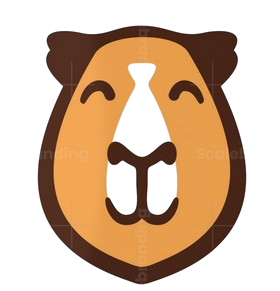
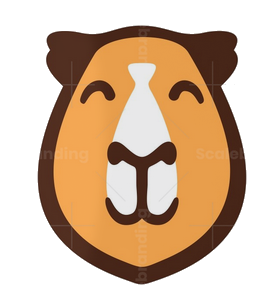
projects sectoin

diff --git a/app/page.tsx b/app/page.tsx
@@ -2,10 +2,12 @@ import Link from "next/link";
 import Hero from "@/components/Hero";
 import NowPlaying from "@/components/NowPlaying";
 import { getAllPosts } from "@/lib/posts";
-import { Calendar, ArrowRight } from "lucide-react";
+import { projects } from "@/lib/projects";
+import { Calendar, ArrowRight, ExternalLink, GitBranch } from "lucide-react";
 
 export default function Home() {
   const posts = getAllPosts().slice(0, 3);
+  const topProjects = projects.slice(0, 3);
 
   return (
     <main className="min-h-screen max-w-[1200px] mx-auto px-8 pb-24 pt-20 flex flex-col font-sans">
@@ -17,6 +19,84 @@ export default function Home() {
           <NowPlaying />
         </div>
       </div>
+
+      <section className="mt-32 flex flex-col gap-6">
+        <div className="flex flex-col gap-2">
+          <h2 className="text-3xl sm:text-4xl font-serif font-normal tracking-tight text-gray-900 dark:text-gray-100">
+            Projects
+          </h2>
+          <p className="text-sm text-gray-500 dark:text-gray-400 font-mono">
+            things i have built or am building
+          </p>
+        </div>
+
+        <div className="grid grid-cols-1 sm:grid-cols-2 lg:grid-cols-3 gap-5">
+          {topProjects.map((project) => (
+            <div
+              key={project.title}
+              className="group rounded-2xl border border-gray-200/60 dark:border-white/10 bg-white/40 dark:bg-white/[0.03] p-5 backdrop-blur-xl transition-all hover:border-gray-300/80 dark:hover:border-white/20 hover:shadow-lg flex flex-col gap-3"
+            >
+              {project.image && (
+                <div className="overflow-hidden rounded-xl -mx-1 -mt-1">
+                  {/* eslint-disable-next-line @next/next/no-img-element */}
+                  <img
+                    src={project.image}
+                    alt={project.title}
+                    className="w-full h-32 object-cover rounded-xl transition-transform group-hover:scale-105"
+                  />
+                </div>
+              )}
+
+              <div className="flex flex-col gap-2 flex-grow">
+                <div className="flex items-start justify-between gap-2">
+                  <h3 className="text-base font-medium text-gray-900 dark:text-gray-200 leading-snug">
+                    {project.title}
+                  </h3>
+                  <span className="shrink-0 text-[10px] font-mono px-2 py-0.5 rounded-full bg-gray-200/60 dark:bg-white/5 text-gray-500 dark:text-gray-500">
+                    {project.status}
+                  </span>
+                </div>
+
+                <p className="text-[13px] text-gray-500 dark:text-gray-400 leading-relaxed line-clamp-3">
+                  {project.description}
+                </p>
+              </div>
+
+              <div className="flex items-center gap-2.5 mt-auto pt-1">
+                {project.demo && (
+                  <Link
+                    href={project.demo}
+                    target="_blank"
+                    rel="noopener noreferrer"
+                    className="flex items-center gap-1 text-xs font-mono text-blue-500 dark:text-blue-400 hover:underline"
+                  >
+                    <ExternalLink size={12} />
+                    demo
+                  </Link>
+                )}
+                {project.github && (
+                  <Link
+                    href={project.github}
+                    target="_blank"
+                    rel="noopener noreferrer"
+                    className="flex items-center gap-1 text-xs font-mono text-gray-500 dark:text-gray-400 hover:text-gray-900 dark:hover:text-gray-200 transition-colors"
+                  >
+                    <GitBranch size={12} />
+                    source
+                  </Link>
+                )}
+              </div>
+            </div>
+          ))}
+        </div>
+
+        <Link
+          href="/projects"
+          className="flex items-center gap-1.5 text-sm font-mono text-gray-500 dark:text-gray-400 hover:text-gray-900 dark:hover:text-gray-200 transition-colors w-fit mt-2"
+        >
+          all projects <ArrowRight size={14} />
+        </Link>
+      </section>
 
       <section className="mt-32 flex flex-col gap-6">
         <div className="flex flex-col gap-2">

diff --git a/app/projects/page.tsx b/app/projects/page.tsx
@@ -1,0 +1,80 @@
+import Link from "next/link";
+import { projects } from "@/lib/projects";
+import { ExternalLink, GitBranch } from "lucide-react";
+
+export default function ProjectsPage() {
+  return (
+    <div className="min-h-screen max-w-[1200px] mx-auto px-8 pb-24 pt-8 flex flex-col">
+      <div className="flex flex-col gap-12">
+        <div className="flex flex-col gap-3">
+          <h1 className="text-3xl sm:text-4xl font-serif font-normal tracking-tight text-gray-900 dark:text-gray-100">
+            Projects
+          </h1>
+          <p className="text-sm text-gray-500 dark:text-gray-400 font-mono max-w-lg">
+            things i have built or am building
+          </p>
+        </div>
+
+        <div className="grid grid-cols-1 sm:grid-cols-2 lg:grid-cols-3 gap-5">
+          {projects.map((project) => (
+            <div
+              key={project.title}
+              className="group rounded-2xl border border-gray-200/60 dark:border-white/10 bg-white/40 dark:bg-white/[0.03] p-5 backdrop-blur-xl transition-all hover:border-gray-300/80 dark:hover:border-white/20 hover:shadow-lg flex flex-col gap-3"
+            >
+              {project.image && (
+                <div className="overflow-hidden rounded-xl -mx-1 -mt-1">
+                  {/* eslint-disable-next-line @next/next/no-img-element */}
+                  <img
+                    src={project.image}
+                    alt={project.title}
+                    className="w-full h-40 object-cover rounded-xl transition-transform group-hover:scale-105"
+                  />
+                </div>
+              )}
+
+              <div className="flex flex-col gap-2 flex-grow">
+                <div className="flex items-start justify-between gap-2">
+                  <h2 className="text-base font-medium text-gray-900 dark:text-gray-200 leading-snug">
+                    {project.title}
+                  </h2>
+                  <span className="shrink-0 text-[10px] font-mono px-2 py-0.5 rounded-full bg-gray-200/60 dark:bg-white/5 text-gray-500 dark:text-gray-500">
+                    {project.status}
+                  </span>
+                </div>
+
+                <p className="text-[13px] text-gray-500 dark:text-gray-400 leading-relaxed line-clamp-4">
+                  {project.description}
+                </p>
+              </div>
+
+              <div className="flex items-center gap-3 mt-auto pt-1">
+                {project.demo && (
+                  <Link
+                    href={project.demo}
+                    target="_blank"
+                    rel="noopener noreferrer"
+                    className="flex items-center gap-1 text-xs font-mono text-blue-500 dark:text-blue-400 hover:underline"
+                  >
+                    <ExternalLink size={12} />
+                    demo
+                  </Link>
+                )}
+                {project.github && (
+                  <Link
+                    href={project.github}
+                    target="_blank"
+                    rel="noopener noreferrer"
+                    className="flex items-center gap-1 text-xs font-mono text-gray-500 dark:text-gray-400 hover:text-gray-900 dark:hover:text-gray-200 transition-colors"
+                  >
+                    <GitBranch size={12} />
+                    source
+                  </Link>
+                )}
+              </div>
+            </div>
+          ))}
+        </div>
+      </div>
+    </div>
+  );
+}

diff --git a/lib/projects.ts b/lib/projects.ts
@@ -1,0 +1,63 @@
+export const projects = [
+  {
+    title: "Mortar",
+    description: `Mortar is an all-in-one email infrastructure platform that combined custom domain mailbox hosting with transactional email APIs in a single product.
+It enables teams to manage team inboxes and send application emails without dealing with the complexity of running their own email servers.`,
+    image: "https://mortar.email/og.webp",
+    demo: "https://mortar.email",
+    status: "Maintained",
+  },
+  {
+    title: "Mist",
+    description: 'mist is a platform that lets you deploy web apps from git repositories using Docker. think Heroku but running on your own server.',
+    image: "/mist.png",
+    github: "https://github.com/trymist/mist",
+    demo: "https://trymist.cloud",
+    status: "V2 in development"
+  },
+  {
+    title: "Fyrer",
+    description: `A lightweight CLI tool for running multiple development servers concurrently, with plans to evolve into a full-fledged monorepo toolkit.`,
+    image: "/fyrer.png",
+    demo: "https://crates.io/crates/fyrer",
+    github: "https://github.com/07Calc/fyrer",
+    status: "V2 in development"
+  },
+  {
+    title: "Meowlman",
+    description: `A comprehensive Rust email toolkit providing everything needed to build email applications—from SMTP servers and clients to MIME parsing, RFC 5322 message generation, and raw email processing—all in one crate.`,
+    github: "https://github.com/07calc/meowlman",
+    status: "In development"
+  },
+  {
+    title: "Crux",
+    description: `A web platform that provides previous years' opening and closing ranks for various colleges under JoSAA and CSAB,
+  helping students make informed decisions during counseling.`,
+    image: "/crux.png",
+    github: "https://github.com/07calc/crux",
+    demo: "https://crux.vinm.me/",
+    status: "Maintained"
+  },
+  {
+    title: "Cook.nvim",
+    description: `cook.nvim is a modular and extensible Neovim plugin that lets you effortlessly compile or run the current file based on its filetype — inside a floating terminal.`,
+    image: "/cook.gif",
+    github: "https://github.com/07calc/cook.nvim",
+    status: "Maintained"
+  },
+  {
+    title: "JeeLore",
+    description: `A community-driven web forum where JEE and NEET aspirants can post questions, share answers, and collaborate to
+  solve academic doubts.`,
+    image: "/jeelore.png",
+    github: "https://github.com/07calc/jeelore",
+    status: "Abandoned"
+  },
+  {
+    title: "Batua",
+    description: `A web application that allows users to track their expenses and providing insights into their financial habits.`,
+    image: "/batua.jpg",
+    github: "https://github.com/07calc/batua",
+    status: "Abandoned"
+  },
+];